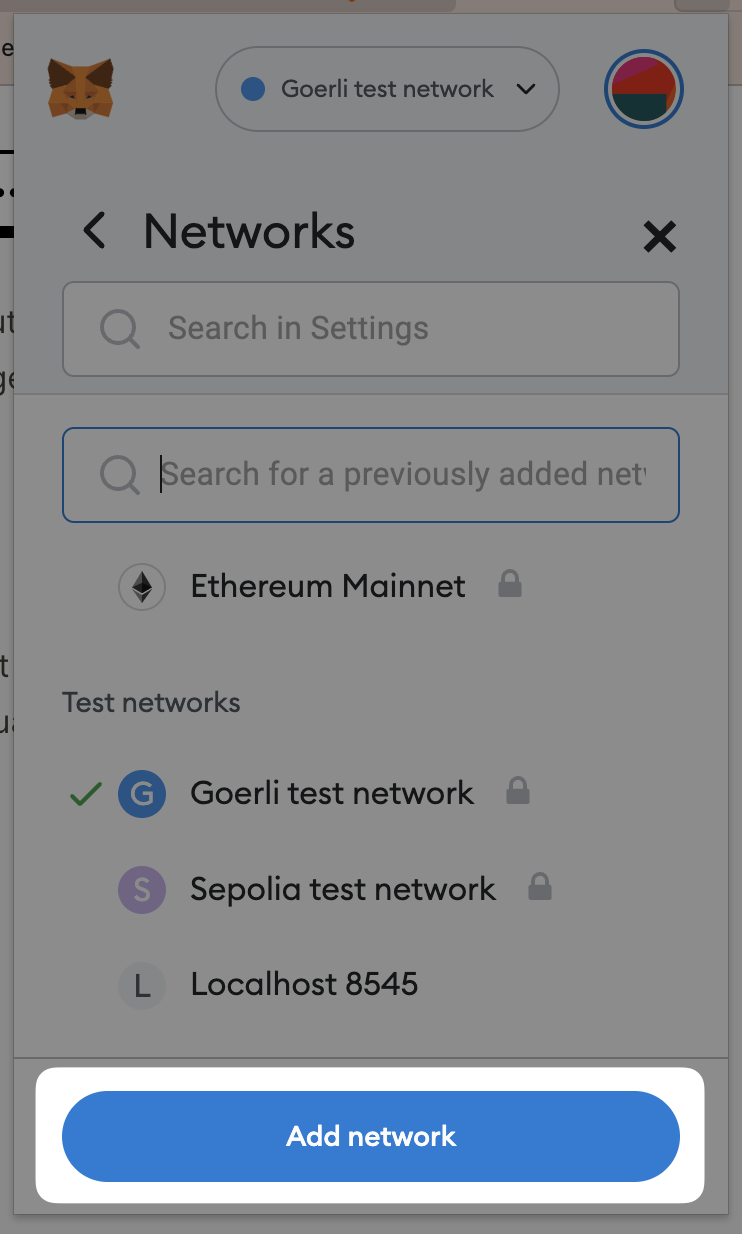
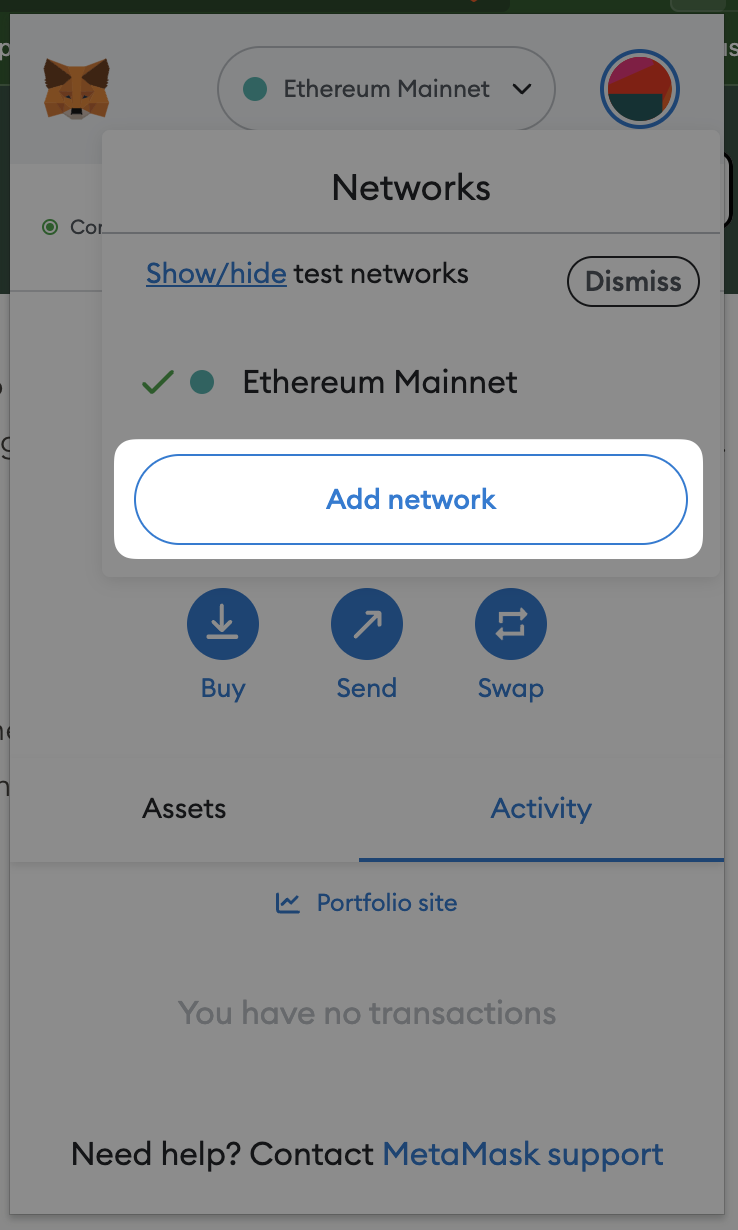
Removing a step from MetaMask instructions

diff --git a/src/App.tsx b/src/App.tsx
@@ -10,8 +10,8 @@ import './App.css'
 
 import nectarLogo from './assets/logo.svg'
 
-import imageMetamaskSettings from './assets/MetaMaskSettings.png'
-import imageNetworks from './assets/Networks.png'
+// import imageMetamaskSettings from './assets/MetaMaskSettings.png'
+import imageNetworkSwitcher from './assets/NetworkSwitcher.png'
 import imageAddNetwork from './assets/AddNetwork.png'
 import imageAddManually from './assets/AddManually.png'
 import imageNetworkSettings from './assets/NetworkSettings.png'
@@ -245,30 +245,17 @@ function App() {
 
           <ol>
             <li>
-              Go to{' '}
-              <span id="metamask-settings" className="underline underline-offset-4 decoration-dotted cursor-help">
-                MetaMask Settings
+              Open{' '}
+              <span id="network-switcher" className="underline underline-offset-4 decoration-dotted cursor-help">
+                MetaMask network switcher
               </span>
               .
             </li>
             <Tooltip
               noArrow
-              anchorId="metamask-settings"
+              anchorId="network-switcher"
               style={tooltipStyle}
-              html={`<img class="w-60 p-0 m-0 opacity-100" src='${imageMetamaskSettings}' />`}
-            />
-            <li>
-              Go to{' '}
-              <span id="metamask-networks" className="underline underline-offset-4 decoration-dotted cursor-help">
-                Networks
-              </span>
-              .
-            </li>
-            <Tooltip
-              noArrow
-              anchorId="metamask-networks"
-              style={tooltipStyle}
-              html={`<img class="w-60 p-0 m-0 opacity-100" src='${imageNetworks}' />`}
+              html={`<img class="w-60 p-0 m-0 opacity-100" src='${imageNetworkSwitcher}' />`}
             />
             <li>
               Click{' '}
